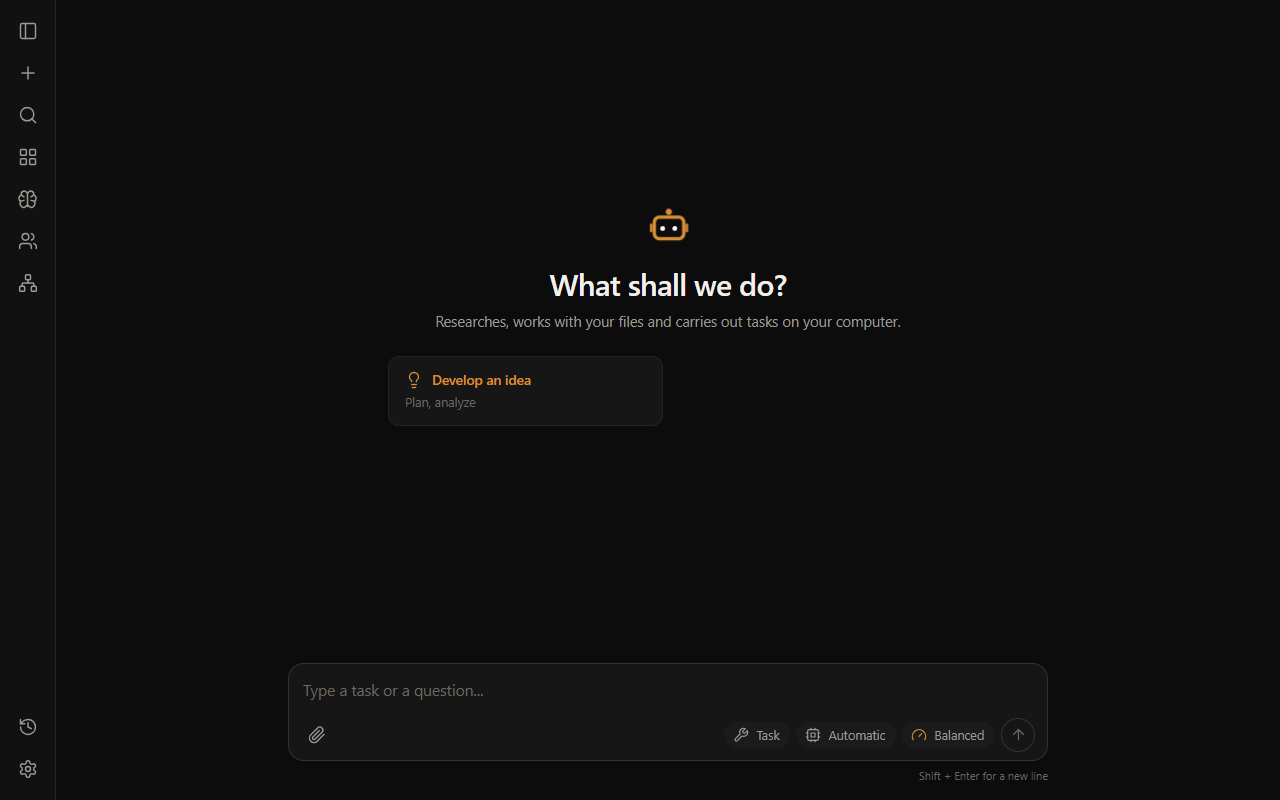
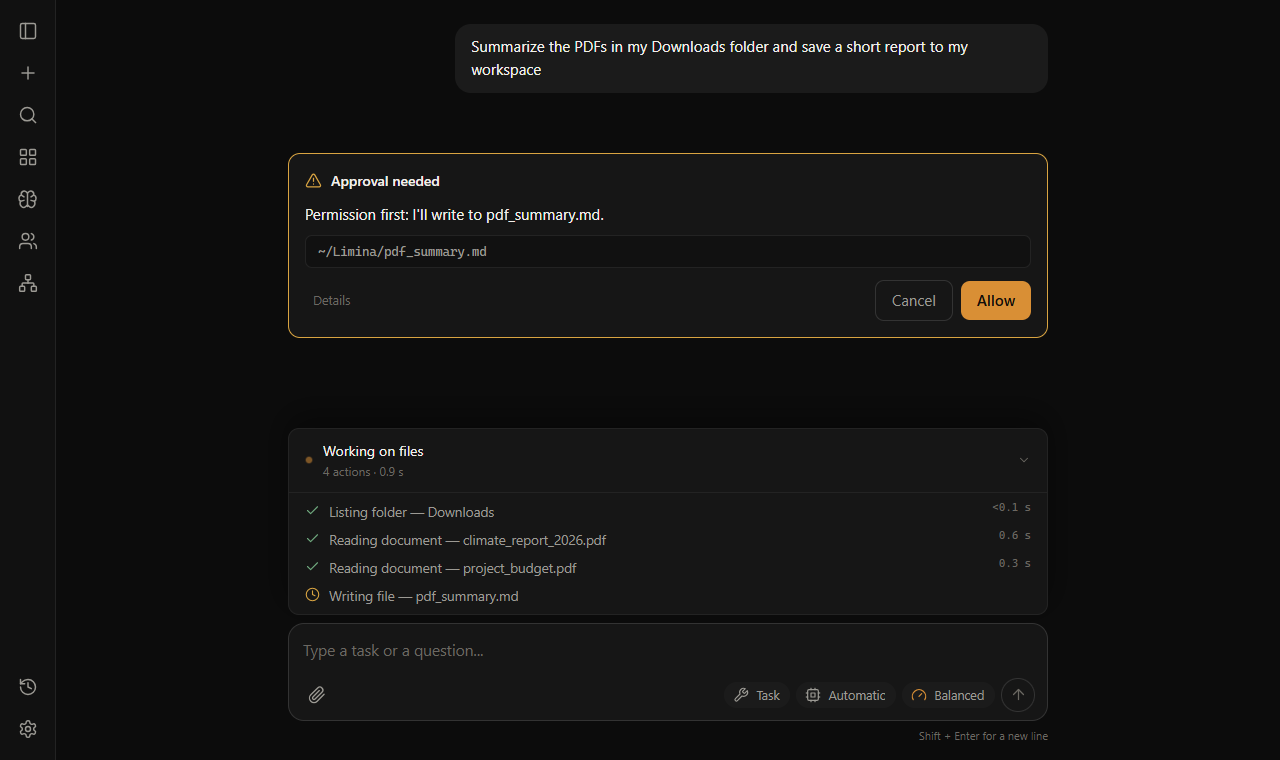
Add security policy and a README screenshot that shows an approval

diff --git a/SECURITY.md b/SECURITY.md
@@ -1,0 +1,47 @@
+# Security policy
+
+Limina is an AI agent that can read and change files on your computer and act in a browser.
+Its permission gate is the most important part of the project, so security reports are very
+welcome.
+
+## Reporting a vulnerability
+
+**Please do not open a public issue for a security problem.** Report it privately:
+
+1. Go to the [Security tab](https://github.com/ledaronn/limina/security) of this repository.
+2. Click **Report a vulnerability** and describe the problem.
+
+Please include the Limina version, your Windows version, the steps to reproduce, and what an
+attacker could achieve. A minimal `policy.toml` excerpt or a prompt that triggers the issue is
+very helpful. You will get an answer within 14 days. Once a fix is released, you will be credited
+in the release notes unless you prefer otherwise.
+
+## Supported versions
+
+Only the latest release receives security fixes.
+
+| Version | Supported |
+|---|---|
+| 0.1.x (latest) | ✅ |
+| older | ❌ |
+
+## What is in scope
+
+Anything that lets the agent do something the user did not allow, for example:
+
+- **Gate bypass:** a tool call that runs without the confirmation the policy requires, or a tool
+  that is not classified in `policy.toml` running at all.
+- **Path jail escape:** reading or writing outside the configured read/write roots (`..`, links,
+  junctions, short 8.3 names, UNC paths, trailing dots…), or touching blocked files such as keys
+  and credentials inside them.
+- **Prompt injection that leads to action:** text in a web page, document, tool output or MCP
+  response that makes the agent call a tool or change a file without the user's approval.
+- **Self-modification:** the agent changing its own code, `policy.toml` or system prompt.
+- **Undo failures:** a write that is not journaled or cannot be undone as documented.
+- **Secret leakage:** API keys written to `policy.toml`, the journal, chats or logs.
+
+Out of scope: problems in the AI model itself (wrong answers, refusals), issues that require an
+already compromised user account, and third-party MCP servers you add yourself.
+
+The design of the permission model and the threats it addresses are described (in Turkish) in
+[docs/SECURITY.md](docs/SECURITY.md).

diff --git a/README.md b/README.md
@@ -8,7 +8,7 @@ browser and works with documents to get it done. It only touches folders you all
 before anything risky, and every file change can be undone. Your chats, settings and backups stay
 on your machine; the only thing that leaves it is the text sent to the AI model you choose.
 
-![Limina home screen](docs/img/home.png)
+![Limina asks before writing a file: the task, each step it took, and an approval card](docs/img/home.png)
 
 > Türkçe: [docs/README.tr.md](docs/README.tr.md) · Design docs (Turkish): [docs/](docs/)
 

diff --git a/docs/README.tr.md b/docs/README.tr.md
@@ -8,7 +8,7 @@ ve belgeleri kullanarak işi yapar. Yalnızca izin verdiğin klasörlere dokunur
 sana sorar ve yaptığı her dosya değişikliği geri alınabilir. Sohbetlerin, ayarların ve yedeklerin
 bilgisayarında kalır; dışarı çıkan tek şey seçtiğin yapay zekâ modeline gönderilen metindir.
 
-![Limina ana ekranı](img/home.png)
+![Limina dosya yazmadan önce sorar: görev, attığı adımlar ve onay kartı](img/home.png)
 
 ## Neler yapabilirsin
 
